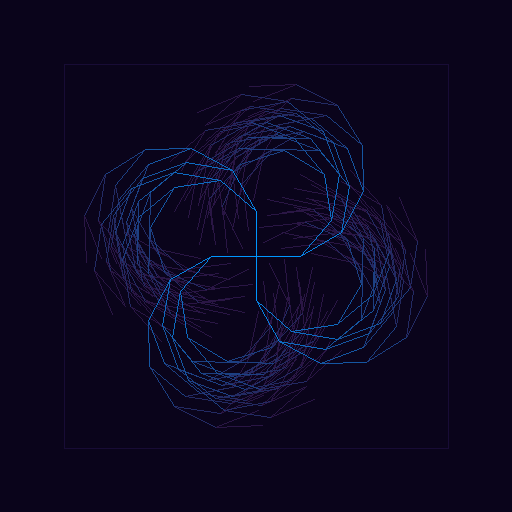
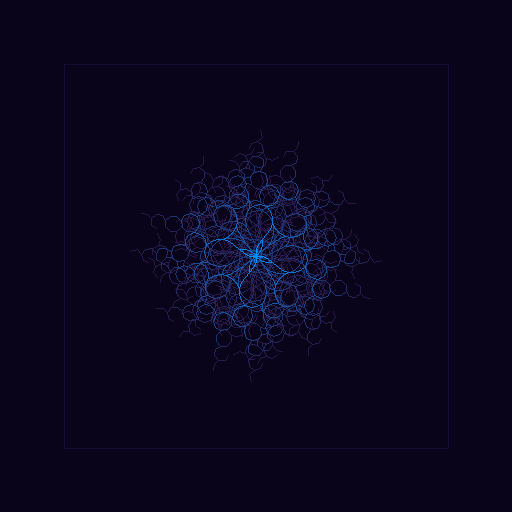
previous service algorithm was very efficient but also, as it would happen, very incorrect. this commit includes an experimental proxy-for-service algorithm which looks at the spacing between ordered lists of x and y coordinates

diff --git a/fractal.py b/fractal.py
@@ -134,7 +134,7 @@ class Solution(object):
 		return self
 
 	def point_set(self):
-		self.total_length = 0
+		self.total_length = 1
 		origin = OriginPoint()
 		points = []
 
@@ -142,38 +142,54 @@ class Solution(object):
 			points.append(base)
 			if base.depth < constants.RECURSION_LIMIT and not base.terminate(self):
 				segments = base.segments(self)
-				self.total_length += segments[0].length(self) * len(segments)
+				self.total_length += segments[0].length(self)
 				for segment in segments:
 					recurse(segment.end(self))
 		recurse(origin)
 		return points
 
 	def solve(self):
-		def point_length(point):
-			try:
-				return sum([segment.length(self) for segment in point.segments(self)])
-			except OverflowError:
-				return sys.float_info.max
+		def in_bounds(p):
+			if p.x < constants.PLOT_MARGIN or p.x > (constants.PLOT_SIZE - constants.PLOT_MARGIN):
+				return False
+			if p.y < constants.PLOT_MARGIN or p.y > (constants.PLOT_SIZE - constants.PLOT_MARGIN):
+				return False
+			return True
 
-		def bounds_penalty(point):
-			if point.x < constants.PLOT_MARGIN or point.x > (constants.PLOT_SIZE - constants.PLOT_MARGIN):
-				return 1000
-			if point.y < constants.PLOT_MARGIN or point.y > (constants.PLOT_SIZE - constants.PLOT_MARGIN):
-				return 1000
-			return 0
-
-		point_set = self.point_set()
-
-		def bucket(p):
-			if p.x > constants.PLOT_MARGIN and p.x < constants.PLOT_SIZE - constants.PLOT_MARGIN and p.y > constants.PLOT_MARGIN and p.y < constants.PLOT_SIZE - constants.PLOT_MARGIN:
+		def to_service_grid_bucket(p):
+			if in_bounds(p):
 				return (p.x // constants.SERVICE_GRID_SPACING, p.y // constants.SERVICE_GRID_SPACING)
 
-		full_buckets = len(set(map(bucket, point_set)))
-		# empty_buckets = (((constants.PLOT_SIZE - (constants.PLOT_MARGIN * 2)) / constants.SERVICE_GRID_SPACING) ** 2) - full_buckets
-		# length_penalty = max(min(sys.float_info.max, self.total_length), -sys.float_info.max)
+		def point_spacing(points):
+			def ord_spacing(ords):
+				ords.extend([0, constants.PLOT_SIZE])
+				ords.sort()
+				try:
+					return float(sum([(abs(b - a) - 1) ** 2 for a, b in zip(ords, ords[1:])])) ** 0.5
+				except OverflowError:
+					return sys.float_info.max
+			x = [p.x for p in point_set]
+			y = [p.y for p in point_set]
+			return ord_spacing(x) + ord_spacing(y)
 
-		self.fitness = full_buckets  # ** 2 + 10 / int(length_penalty + 1)
-		# print "{}, {}".format(full_buckets ** 2, 1000 / int(length_penalty + 50))
+		def length_penalty():
+			try:
+				return sum([abs(min(0, self.length_function.f(x) - 10) ** 2) for x in range(0, constants.PLOT_SIZE / 2, constants.SERVICE_GRID_SPACING)])
+			except OverflowError:
+				return sys.float_info.max
+		point_set = self.point_set()
+		spacing_score = 1.0 / point_spacing(point_set)
+		self.fitness = spacing_score
+		# point_set = self.point_set()
+		# filled_buckets = len(set(map(to_service_grid_bucket, point_set)))
+		# bounds_penalty = len(point_set) - len(filter(in_bounds, point_set))
+		# point_set.sort(key=lambda p: p.depth)
+		# spacing_score = 1.0 / (point_spacing(point_set) / 10)
+		# length_score = 1.0 / (1 + length_penalty())
+		# bucket_score = float(filled_buckets) / 10.0
+		# print spacing_score
+		# self.fitness = spacing_score + length_score + bucket_score - bounds_penalty
+
 		return self
 
 
@@ -187,7 +203,7 @@ class Point(object):
 		self.depth = depth
 		self.dist_to_origin = self._dist_to_origin()
 		self.parent_orientation = parent_orientation
-		self.segment_count = constants.BRANCHING_FACTOR if self.depth % 3 == 0 else 1
+		self.segment_count = 1 if self.depth % constants.BRANCH_DISTANCE else constants.BRANCH_SEGMENTS
 
 	def _dist_to_origin(self):
 		try:
@@ -201,7 +217,7 @@ class Point(object):
 
 	def orientation(self, solution):
 		dist = self.dist_to_origin
-		delta = solution.orientation_function.f(dist)  # % (pi * 2 / 8)) - ((pi * 2 / 8) / 2)  # -22.5 --> +22.5
+		delta = solution.orientation_function.f(dist)
 		return (self.parent_orientation + delta) % (2 * pi)
 
 	def segments(self, solution):
@@ -221,9 +237,9 @@ class Point(object):
 	def terminate(self, solution):
 		try:
 			dist = self.dist_to_origin
-			return solution.termination_function.f(dist) > 1
+			return solution.termination_function.f(dist) < self.depth
 		except OverflowError:
-			return sys.float_info.max
+			return True
 
 
 class OriginPoint(Point):
@@ -285,7 +301,7 @@ class Plot(object):
 		# sort by depth so oldest segments are drawn on top
 		points.sort(key=lambda p: -p.depth)
 		for point in points:
-			fill = colour_lookup(float(point.depth) / constants.RECURSION_LIMIT)
+			fill = colour_lookup(float(point.depth) / (points[0].depth + 1))
 			for segment in point.segments(self.solution):
 				end = segment.end(self.solution)
 				if end.x >= 0 and end.y >= 0 and end.x <= constants.PLOT_SIZE and end.y <= constants.PLOT_SIZE:
@@ -316,10 +332,10 @@ def new_solution():
 candidates = []
 solutions = []
 fittest = Solution()
-fittest.length_function = TermSet(init_terms=[BaseTerm('CNST', innerMultiplier=4, outerMultiplier=4)])
-fittest.radiance_function = TermSet(init_terms=[BaseTerm('CNST', innerMultiplier=3, outerMultiplier=3)])
-fittest.orientation_function = TermSet(init_terms=[BaseTerm('CNST', innerMultiplier=0, outerMultiplier=0)])
-fittest.termination_function = TermSet(init_terms=[BaseTerm('CNST', innerMultiplier=0, outerMultiplier=0)])
+fittest.length_function = TermSet(init_terms=[BaseTerm('CNST', innerMultiplier=2.0, outerMultiplier=4.0)])
+fittest.radiance_function = TermSet(init_terms=[BaseTerm('CNST', innerMultiplier=1.0, outerMultiplier=1.0)])
+fittest.orientation_function = TermSet(init_terms=[BaseTerm('CNST', innerMultiplier=0.0, outerMultiplier=0.0)])
+fittest.termination_function = TermSet(init_terms=[BaseTerm('POLY', innerMultiplier=1.0, outerMultiplier=1.0)])
 fittest.solve()
 
 solutions.append(fittest)
@@ -336,13 +352,9 @@ def cross(s1, s2):
 	sn.termination_function = copy.deepcopy(s1.termination_function) if random() > 0.5 else copy.deepcopy(s2.termination_function)
 	return sn
 
-print "Mutation constant:      {}".format(constants.MUTE_VARIABILITY)
-print "Mutation positive bias: {}".format(constants.MUTE_POSITIVE_BIAS)
-print ""
-
 for lap in range(1000000):
 	candidates = sorted(solutions, key=lambda s: s.fitness)[:2]
-	candidates.append(new_solution())
+	candidates.extend([new_solution() for n in range(1)])
 	# keep and mutate the best few from previous round
 	solutions = pool.map(mutate, [copy.deepcopy(c) for c in candidates])
 
@@ -350,7 +362,7 @@ for lap in range(1000000):
 	solutions.extend([copy.deepcopy(c) for c in candidates])
 
 	# mix up the functions from the best few from previous round
-	solutions.extend([cross(s1, s2) for s1 in candidates for s2 in candidates])
+	solutions.extend([cross(s1, s2) for s1 in candidates for s2 in candidates for n in range(1)])
 
 	solutions = pool.map(solve, solutions)  # compute point-sets and fitnesses
 	solutions.append(fittest)  # keep the best from last round, un-mutated

diff --git a/constants.py b/constants.py
@@ -1,3 +1,7 @@
+##################
+# Function terms #
+##################
+
 # amount to vary terms by if mutating. 0.1 = +/- 10%.
 MUTE_VARIABILITY = 1.5
 
@@ -16,20 +20,32 @@ CREATE_TERM_CHANCE = 0.005
 # chance to delete a term (multiplied by number of terms)
 DELETE_TERM_CHANCE = 0.0005
 
-# how many segments has each point?
-BRANCHING_FACTOR = 2
 
-# how much to scale down multipliers if an overflow occurs
-OVERFLOW_REDUCTION_DIVISOR = 2
+##################
+# Branching      #
+##################
+# how many segments has each point?
+BRANCH_SEGMENTS = 2
+
+# split into BRANCHING_FACTOR segments every BRANCH_DISTANCEth point
+BRANCH_DISTANCE = 3
+
+# Hard limit at this depth
+RECURSION_LIMIT = 25
+
+##################
+# Plotting       #
+##################
 
 PLOT_SIZE = 512
-
 PLOT_MARGIN = 64
-
 ORIGIN_X = PLOT_SIZE / 2
 ORIGIN_Y = PLOT_SIZE / 2
 
-RECURSION_LIMIT = 18
 
-# spacing of grid used to check how well-covered the area is
-SERVICE_GRID_SPACING = 16
+##################
+# Fitness test   #
+##################
+
+# spacing of grid used to check how well-covered the area is.
+SERVICE_GRID_SPACING = 8
